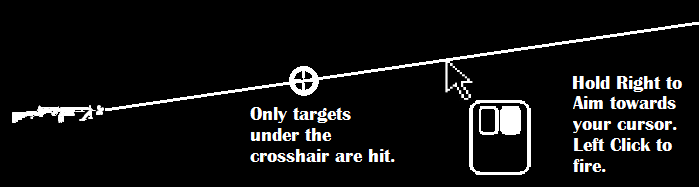
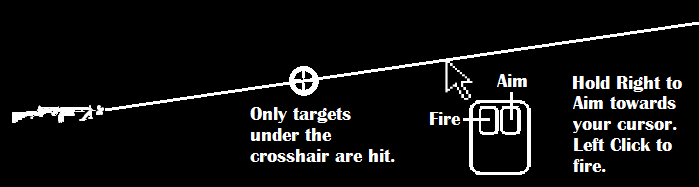
Finished Tutorial Help Images

Changed region(s): [[0.6009, 0.5615, 0.7511, 0.7219], [0.691, 0.4011, 0.7511, 0.4813], [0.721, 0.508, 0.7511, 0.5348]]

diff --git a/InFoxholes/Waves/TutorialWave3.cs b/InFoxholes/Waves/TutorialWave3.cs
@@ -3,6 +3,7 @@ using InFoxholes.Layouts;
 using InFoxholes.Looting;
 using Microsoft.Xna.Framework;
 using Microsoft.Xna.Framework.Content;
+using Microsoft.Xna.Framework.Graphics;
 using System.Collections.Generic;
 
 namespace InFoxholes.Waves
@@ -54,6 +55,8 @@ namespace InFoxholes.Waves
             lootList.Add(new MachineGunAmmoLoot(10, content));
             openingTextFilename = "Content//Text//TutorialWave3Open.txt";
             layout = new FoxholeLayout();
+            helpTexture = content.Load<Texture2D>("Graphics\\Tutorial3Help");
+            helpTextureController = content.Load<Texture2D>("Graphics\\Tutorial3HelpController");
             base.Initialize(content, manager);
         }
     }

diff --git a/InFoxholes/Waves/TutorialWave2.cs b/InFoxholes/Waves/TutorialWave2.cs
@@ -5,6 +5,7 @@ using InFoxholes.Looting;
 using InFoxholes.Windows;
 using Microsoft.Xna.Framework;
 using Microsoft.Xna.Framework.Content;
+using Microsoft.Xna.Framework.Graphics;
 using System.Collections.Generic;
 
 namespace InFoxholes.Waves
@@ -25,6 +26,8 @@ namespace InFoxholes.Waves
             lootList.Add(new SniperAmmoLoot(2, content));
             openingTextFilename = "Content//Text//TutorialWave2Open.txt";
             layout = new FoxholeLayout();
+            helpTexture = content.Load<Texture2D>("Graphics\\Tutorial2Help");
+            helpTextureController = content.Load<Texture2D>("Graphics\\Tutorial2HelpController");
             base.Initialize(content, manager);
         }
 

diff --git a/InFoxholes/Waves/TutorialWave1.cs b/InFoxholes/Waves/TutorialWave1.cs
@@ -41,6 +41,7 @@ namespace InFoxholes.Waves
             openingTextFilename = "Content//Text//TutorialWave1Open.txt";
             layout = new FoxholeLayout();
             helpTexture = content.Load<Texture2D>("Graphics\\Tutorial1Help");
+            helpTextureController = content.Load<Texture2D>("Graphics\\Tutorial1HelpController");
             base.Initialize(content, manager);
         }
     }
